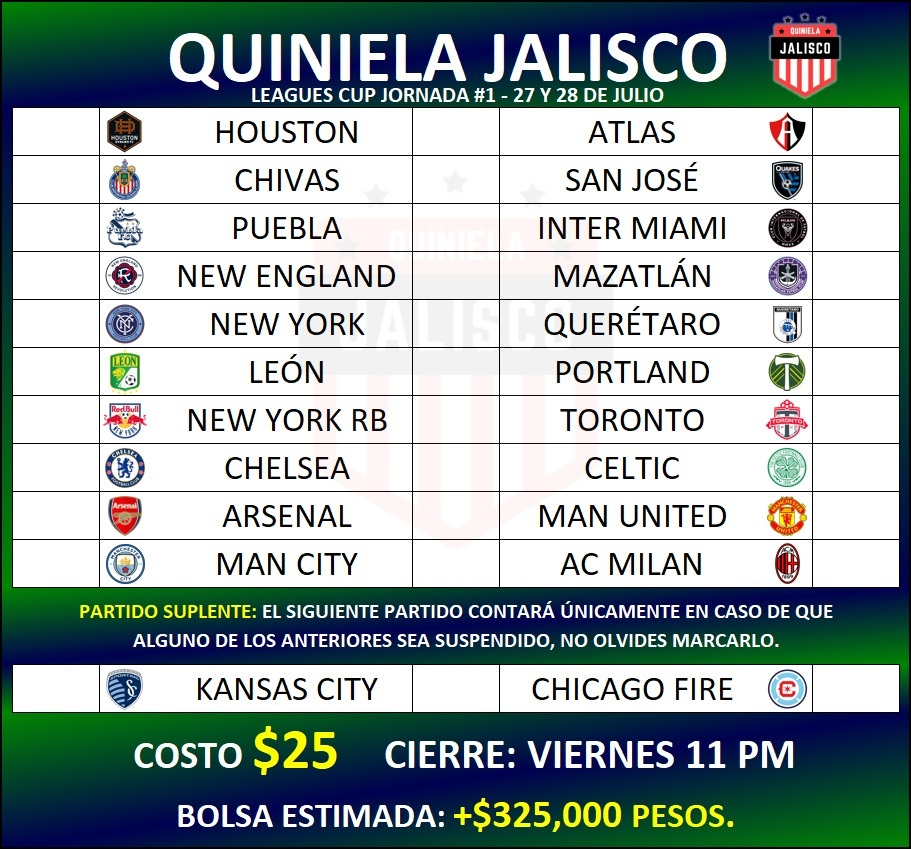
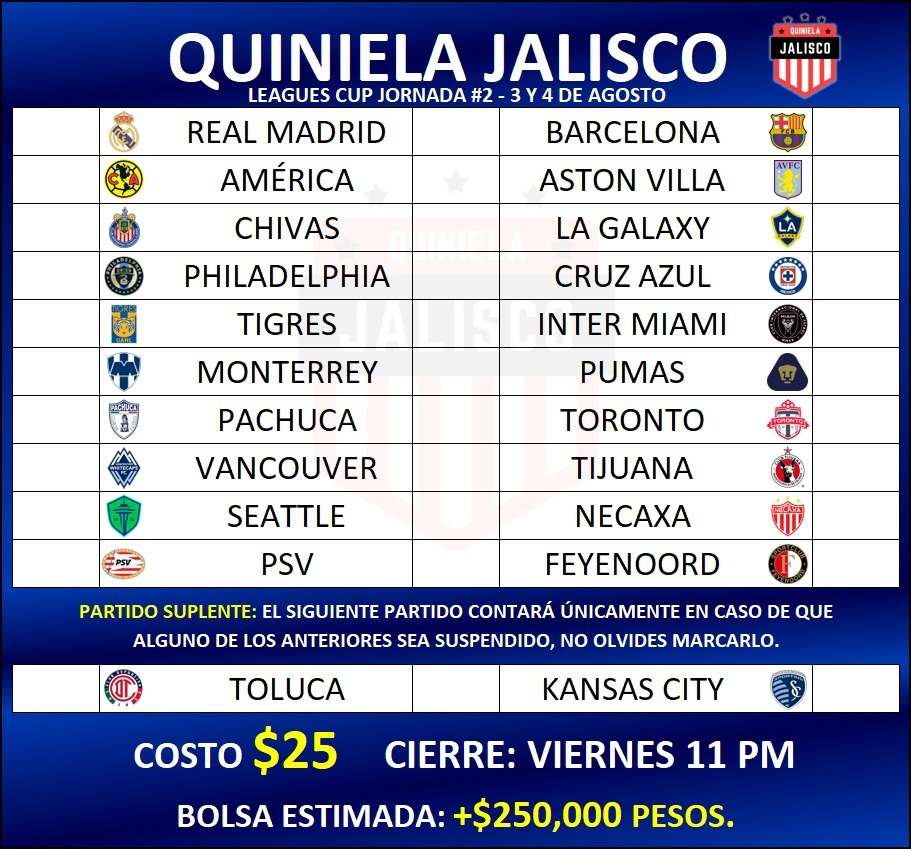
asd

diff --git a/11/styles11.css b/11/styles11.css
@@ -95,8 +95,8 @@ body{
     margin-top: 8.5%;
     border-top: solid 1px black;
     border-radius: 0 0 14px 14px;
-    background: -webkit-linear-gradient(0.49turn, rgb(4 3 83) -7%, rgb(0, 77, 35) 80%);
-    background: linear-gradient(0.49turn, rgb(4 3 83) -7%, rgb(0, 77, 35) 80%);
+    background: -webkit-linear-gradient(0.49turn, rgb(4 3 83) -7%, rgb(1,40,145) 80%);
+    background: linear-gradient(0.49turn, rgb(4 3 83) -7%, rgb(1,40,145) 80%);
 }
 
 .text-lg{
@@ -293,7 +293,7 @@ h6{
 }
 
 #cantidad:before{
-    content:'+$325,000 pesos';
+    content:'+$250,000 pesos';
     color: yellow;
     white-space:pre;
 }
